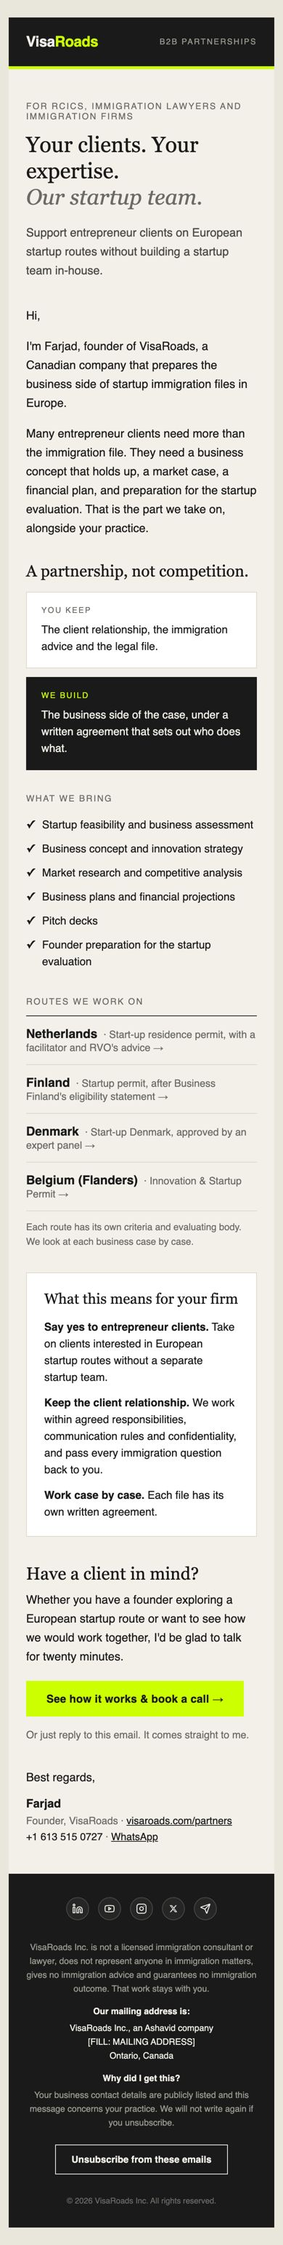
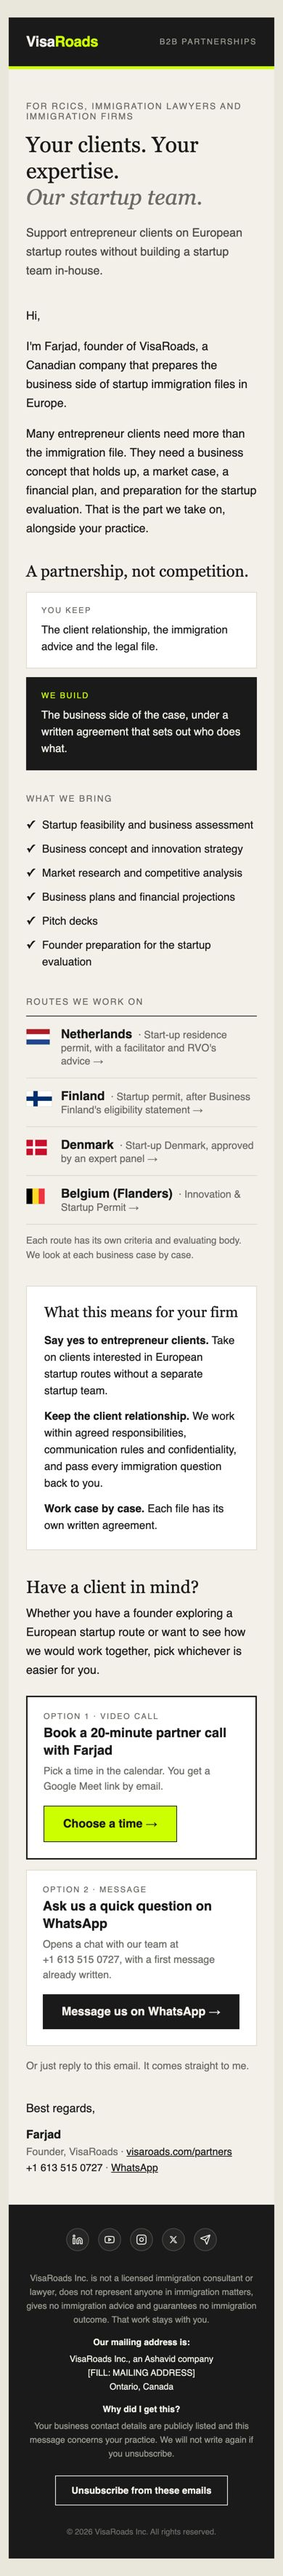
docs(email): flags and two clear CTAs in the RCIC partner email v2
- Country flags as PNGs (official proportions and colours, from
  components/fa/Flag.tsx) at /img/email/flags/, since emoji flags render as
  letters in Windows Outlook.
- Two explicit next steps: book a 20-minute partner call (/en/partners#book)
  or WhatsApp the main line with a prefilled first message.

Changed region(s): [[0.0308, 0.0, 0.9846, 0.9961], [0.8923, 0.6537, 0.9231, 0.716]]

diff --git a/docs/email/templates/rcic-partner-europe-v2.html b/docs/email/templates/rcic-partner-europe-v2.html
@@ -13,7 +13,10 @@
   Farjad's 19 Nov draft, rebuilt for the VisaRoads sender and the Brand Book:
     - Mailchimp merge tags removed. The sender has no per-contact fields, so
       the greeting is "Hi,". It replaces {{unsubscribe_url}} with the signed link.
-    - One call to action: /en/partners#book (opens the partner calendar).
+    - Two clear next steps: book a call at /en/partners#book (opens the partner calendar),
+      or WhatsApp the main line with a prefilled first message.
+    - Flags are PNGs at visaroads.com/img/email/flags/ (emoji flags show as letters in Windows
+      Outlook); they load only after this branch is deployed.
     - Routes match the partner page: Netherlands, Finland, Denmark, Flanders.
     - Sender identification and the not-a-representative line are in the footer (CASL, CICC).
   Fill before each send (search for "FILL"): MAILING ADDRESS in the footer.
@@ -131,28 +134,40 @@
     <p class="muted" style="margin:0 0 12px 0;font-family:'Space Grotesk',Helvetica,Arial,sans-serif;font-size:12px;letter-spacing:1.6px;text-transform:uppercase;color:#6B6B66;">Routes we work on</p>
     <table role="presentation" width="100%" cellpadding="0" cellspacing="0" border="0" style="font-family:Helvetica,Arial,sans-serif;">
       <tr><td class="rule" style="border-top:1px solid #1A1A1A;padding:14px 0;">
-        <a class="link" href="https://visaroads.com/en/europe/netherlands?utm_source=email&amp;utm_medium=campaign&amp;utm_campaign=rcic-partner-europe" style="text-decoration:none;color:#1A1A1A;">
-          <span class="ink-text" style="font-size:17px;font-weight:700;color:#1A1A1A;">Netherlands</span>
-          <span class="muted" style="font-size:14px;color:#6B6B66;">&nbsp;·&nbsp;Start-up residence permit, with a facilitator and RVO's advice&nbsp;&rarr;</span>
-        </a>
+        <table role="presentation" width="100%" cellpadding="0" cellspacing="0" border="0"><tr>
+          <td width="48" valign="top" style="width:48px;padding-top:3px;"><a href="https://visaroads.com/en/europe/netherlands?utm_source=email&amp;utm_medium=campaign&amp;utm_campaign=rcic-partner-europe"><img src="https://visaroads.com/img/email/flags/nl.png" width="33" height="22" alt="Flag of Netherlands" style="display:block;width:33px;height:22px;"></a></td>
+          <td valign="top"><a class="link" href="https://visaroads.com/en/europe/netherlands?utm_source=email&amp;utm_medium=campaign&amp;utm_campaign=rcic-partner-europe" style="text-decoration:none;color:#1A1A1A;">
+            <span class="ink-text" style="font-size:17px;font-weight:700;color:#1A1A1A;">Netherlands</span>
+            <span class="muted" style="font-size:14px;color:#6B6B66;">&nbsp;·&nbsp;Start-up residence permit, with a facilitator and RVO's advice&nbsp;&rarr;</span>
+          </a></td>
+        </tr></table>
       </td></tr>
       <tr><td class="rule" style="border-top:1px solid #DDD9CC;padding:14px 0;">
-        <a class="link" href="https://visaroads.com/en/country/finland?utm_source=email&amp;utm_medium=campaign&amp;utm_campaign=rcic-partner-europe" style="text-decoration:none;color:#1A1A1A;">
-          <span class="ink-text" style="font-size:17px;font-weight:700;color:#1A1A1A;">Finland</span>
-          <span class="muted" style="font-size:14px;color:#6B6B66;">&nbsp;·&nbsp;Startup permit, after Business Finland's eligibility statement&nbsp;&rarr;</span>
-        </a>
+        <table role="presentation" width="100%" cellpadding="0" cellspacing="0" border="0"><tr>
+          <td width="48" valign="top" style="width:48px;padding-top:3px;"><a href="https://visaroads.com/en/country/finland?utm_source=email&amp;utm_medium=campaign&amp;utm_campaign=rcic-partner-europe"><img src="https://visaroads.com/img/email/flags/fi.png" width="36" height="22" alt="Flag of Finland" style="display:block;width:36px;height:22px;"></a></td>
+          <td valign="top"><a class="link" href="https://visaroads.com/en/country/finland?utm_source=email&amp;utm_medium=campaign&amp;utm_campaign=rcic-partner-europe" style="text-decoration:none;color:#1A1A1A;">
+            <span class="ink-text" style="font-size:17px;font-weight:700;color:#1A1A1A;">Finland</span>
+            <span class="muted" style="font-size:14px;color:#6B6B66;">&nbsp;·&nbsp;Startup permit, after Business Finland's eligibility statement&nbsp;&rarr;</span>
+          </a></td>
+        </tr></table>
       </td></tr>
       <tr><td class="rule" style="border-top:1px solid #DDD9CC;padding:14px 0;">
-        <a class="link" href="https://visaroads.com/en/country/denmark?utm_source=email&amp;utm_medium=campaign&amp;utm_campaign=rcic-partner-europe" style="text-decoration:none;color:#1A1A1A;">
-          <span class="ink-text" style="font-size:17px;font-weight:700;color:#1A1A1A;">Denmark</span>
-          <span class="muted" style="font-size:14px;color:#6B6B66;">&nbsp;·&nbsp;Start-up Denmark, approved by an expert panel&nbsp;&rarr;</span>
-        </a>
+        <table role="presentation" width="100%" cellpadding="0" cellspacing="0" border="0"><tr>
+          <td width="48" valign="top" style="width:48px;padding-top:3px;"><a href="https://visaroads.com/en/country/denmark?utm_source=email&amp;utm_medium=campaign&amp;utm_campaign=rcic-partner-europe"><img src="https://visaroads.com/img/email/flags/dk.png" width="29" height="22" alt="Flag of Denmark" style="display:block;width:29px;height:22px;"></a></td>
+          <td valign="top"><a class="link" href="https://visaroads.com/en/country/denmark?utm_source=email&amp;utm_medium=campaign&amp;utm_campaign=rcic-partner-europe" style="text-decoration:none;color:#1A1A1A;">
+            <span class="ink-text" style="font-size:17px;font-weight:700;color:#1A1A1A;">Denmark</span>
+            <span class="muted" style="font-size:14px;color:#6B6B66;">&nbsp;·&nbsp;Start-up Denmark, approved by an expert panel&nbsp;&rarr;</span>
+          </a></td>
+        </tr></table>
       </td></tr>
       <tr><td class="rule" style="border-top:1px solid #DDD9CC;border-bottom:1px solid #DDD9CC;padding:14px 0;">
-        <a class="link" href="https://visaroads.com/en/europe/belgium?utm_source=email&amp;utm_medium=campaign&amp;utm_campaign=rcic-partner-europe" style="text-decoration:none;color:#1A1A1A;">
-          <span class="ink-text" style="font-size:17px;font-weight:700;color:#1A1A1A;">Belgium (Flanders)</span>
-          <span class="muted" style="font-size:14px;color:#6B6B66;">&nbsp;·&nbsp;Innovation &amp; Startup Permit&nbsp;&rarr;</span>
-        </a>
+        <table role="presentation" width="100%" cellpadding="0" cellspacing="0" border="0"><tr>
+          <td width="48" valign="top" style="width:48px;padding-top:3px;"><a href="https://visaroads.com/en/europe/belgium?utm_source=email&amp;utm_medium=campaign&amp;utm_campaign=rcic-partner-europe"><img src="https://visaroads.com/img/email/flags/be.png" width="26" height="22" alt="Flag of Belgium" style="display:block;width:26px;height:22px;"></a></td>
+          <td valign="top"><a class="link" href="https://visaroads.com/en/europe/belgium?utm_source=email&amp;utm_medium=campaign&amp;utm_campaign=rcic-partner-europe" style="text-decoration:none;color:#1A1A1A;">
+            <span class="ink-text" style="font-size:17px;font-weight:700;color:#1A1A1A;">Belgium (Flanders)</span>
+            <span class="muted" style="font-size:14px;color:#6B6B66;">&nbsp;·&nbsp;Innovation &amp; Startup Permit&nbsp;&rarr;</span>
+          </a></td>
+        </tr></table>
       </td></tr>
     </table>
     <p class="muted" style="margin:12px 0 0 0;font-family:Helvetica,Arial,sans-serif;font-size:13px;line-height:20px;color:#6B6B66;">
@@ -172,18 +187,42 @@
     </tr></table>
   </td></tr>
 
-  <!-- CTA -->
+  <!-- CTA: two clear next steps -->
   <tr><td class="px paper" style="background:#F2F0E9;padding:36px 40px 8px 40px;font-family:Helvetica,Arial,sans-serif;">
     <p class="ink-text" style="margin:0 0 8px 0;font-family:'DM Serif Display',Georgia,'Times New Roman',serif;font-size:24px;line-height:30px;color:#1A1A1A;">Have a client in mind?</p>
-    <p class="ink-text" style="margin:0 0 20px 0;font-size:16px;line-height:26px;color:#1A1A1A;">
-      Whether you have a founder exploring a European startup route or want to see how we would work together, I'd be glad to talk for twenty minutes.
+    <p class="ink-text" style="margin:0 0 22px 0;font-size:16px;line-height:26px;color:#1A1A1A;">
+      Whether you have a founder exploring a European startup route or want to see how we would work together, pick whichever is easier for you.
     </p>
-    <table role="presentation" class="btn" cellpadding="0" cellspacing="0" border="0"><tr>
-      <td bgcolor="#CCFF00" style="background:#CCFF00;">
-        <a href="https://visaroads.com/en/partners?utm_source=email&amp;utm_medium=campaign&amp;utm_campaign=rcic-partner-europe#book" style="display:inline-block;padding:16px 28px;font-family:'Space Grotesk',Helvetica,Arial,sans-serif;font-size:15px;font-weight:700;letter-spacing:0.2px;color:#1A1A1A;text-decoration:none;">See how it works &amp; book a call&nbsp;&rarr;</a>
+
+    <!-- 1. Book -->
+    <table role="presentation" width="100%" cellpadding="0" cellspacing="0" border="0" style="border:2px solid #1A1A1A;"><tr>
+      <td style="padding:20px 22px 22px 22px;background:#FFFFFF;" class="card">
+        <p class="muted" style="margin:0 0 4px 0;font-size:11px;letter-spacing:1.6px;text-transform:uppercase;color:#6B6B66;">Option 1&nbsp;·&nbsp;Video call</p>
+        <p class="ink-text" style="margin:0 0 6px 0;font-size:18px;line-height:24px;font-weight:700;color:#1A1A1A;">Book a 20-minute partner call with Farjad</p>
+        <p class="muted" style="margin:0 0 16px 0;font-size:14px;line-height:21px;color:#6B6B66;">Pick a time in Farjad’s calendar. Google confirms the booking by email.</p>
+        <table role="presentation" class="btn" cellpadding="0" cellspacing="0" border="0"><tr>
+          <td bgcolor="#CCFF00" style="background:#CCFF00;border:1px solid #1A1A1A;">
+            <a href="https://visaroads.com/en/partners?utm_source=email&amp;utm_medium=campaign&amp;utm_campaign=rcic-partner-europe#book" style="display:inline-block;padding:15px 26px;font-family:'Space Grotesk',Helvetica,Arial,sans-serif;font-size:16px;font-weight:700;color:#1A1A1A;text-decoration:none;">Choose a time&nbsp;&rarr;</a>
+          </td>
+        </tr></table>
       </td>
     </tr></table>
-    <p class="muted" style="margin:14px 0 0 0;font-size:14px;line-height:22px;color:#6B6B66;">Or just reply to this email. It comes straight to me.</p>
+
+    <!-- 2. WhatsApp -->
+    <table role="presentation" width="100%" cellpadding="0" cellspacing="0" border="0" style="margin-top:14px;border:1px solid #DDD9CC;"><tr>
+      <td style="padding:20px 22px 22px 22px;background:#FFFFFF;" class="card">
+        <p class="muted" style="margin:0 0 4px 0;font-size:11px;letter-spacing:1.6px;text-transform:uppercase;color:#6B6B66;">Option 2&nbsp;·&nbsp;Message</p>
+        <p class="ink-text" style="margin:0 0 6px 0;font-size:18px;line-height:24px;font-weight:700;color:#1A1A1A;">Ask us a quick question on WhatsApp</p>
+        <p class="muted" style="margin:0 0 16px 0;font-size:14px;line-height:21px;color:#6B6B66;">Opens a chat with our team at +1&nbsp;613&nbsp;515&nbsp;0727, with a first message already written.</p>
+        <table role="presentation" class="btn" cellpadding="0" cellspacing="0" border="0"><tr>
+          <td bgcolor="#1A1A1A" style="background:#1A1A1A;">
+            <a href="https://wa.me/16135150727?text=Hi%20VisaRoads%2C%20I%27m%20an%20immigration%20practitioner%20and%20I%27d%20like%20to%20talk%20about%20the%20partner%20programme." style="display:inline-block;padding:15px 26px;font-family:'Space Grotesk',Helvetica,Arial,sans-serif;font-size:16px;font-weight:700;color:#F2F0E9;text-decoration:none;">Message us on WhatsApp&nbsp;&rarr;</a>
+          </td>
+        </tr></table>
+      </td>
+    </tr></table>
+
+    <p class="muted" style="margin:16px 0 0 0;font-size:14px;line-height:22px;color:#6B6B66;">Or just reply to this email. It comes straight to me.</p>
   </td></tr>
 
   <!-- Signature -->
@@ -192,7 +231,7 @@
     <p class="ink-text" style="margin:0;font-size:16px;line-height:24px;font-weight:700;color:#1A1A1A;">Farjad</p>
     <p class="muted" style="margin:0;font-size:14px;line-height:22px;color:#6B6B66;">Founder, VisaRoads&nbsp;·&nbsp;<a class="link" href="https://visaroads.com/en/partners?utm_source=email&amp;utm_medium=campaign&amp;utm_campaign=rcic-partner-europe" style="color:#1A1A1A;">visaroads.com/partners</a></p>
     <p class="muted" style="margin:0;font-size:14px;line-height:22px;color:#6B6B66;">
-      <a class="link" href="tel:+16135150727" style="color:#1A1A1A;text-decoration:none;">+1 613 515 0727</a>&nbsp;·&nbsp;<a class="link" href="https://wa.me/16135150727" style="color:#1A1A1A;">WhatsApp</a>
+      <a class="link" href="tel:+16135150727" style="color:#1A1A1A;text-decoration:none;">+1 613 515 0727</a>&nbsp;·&nbsp;<a class="link" href="https://wa.me/16135150727?text=Hi%20VisaRoads%2C%20I%27m%20an%20immigration%20practitioner%20and%20I%27d%20like%20to%20talk%20about%20the%20partner%20programme." style="color:#1A1A1A;">WhatsApp</a>
     </p>
   </td></tr>
 
